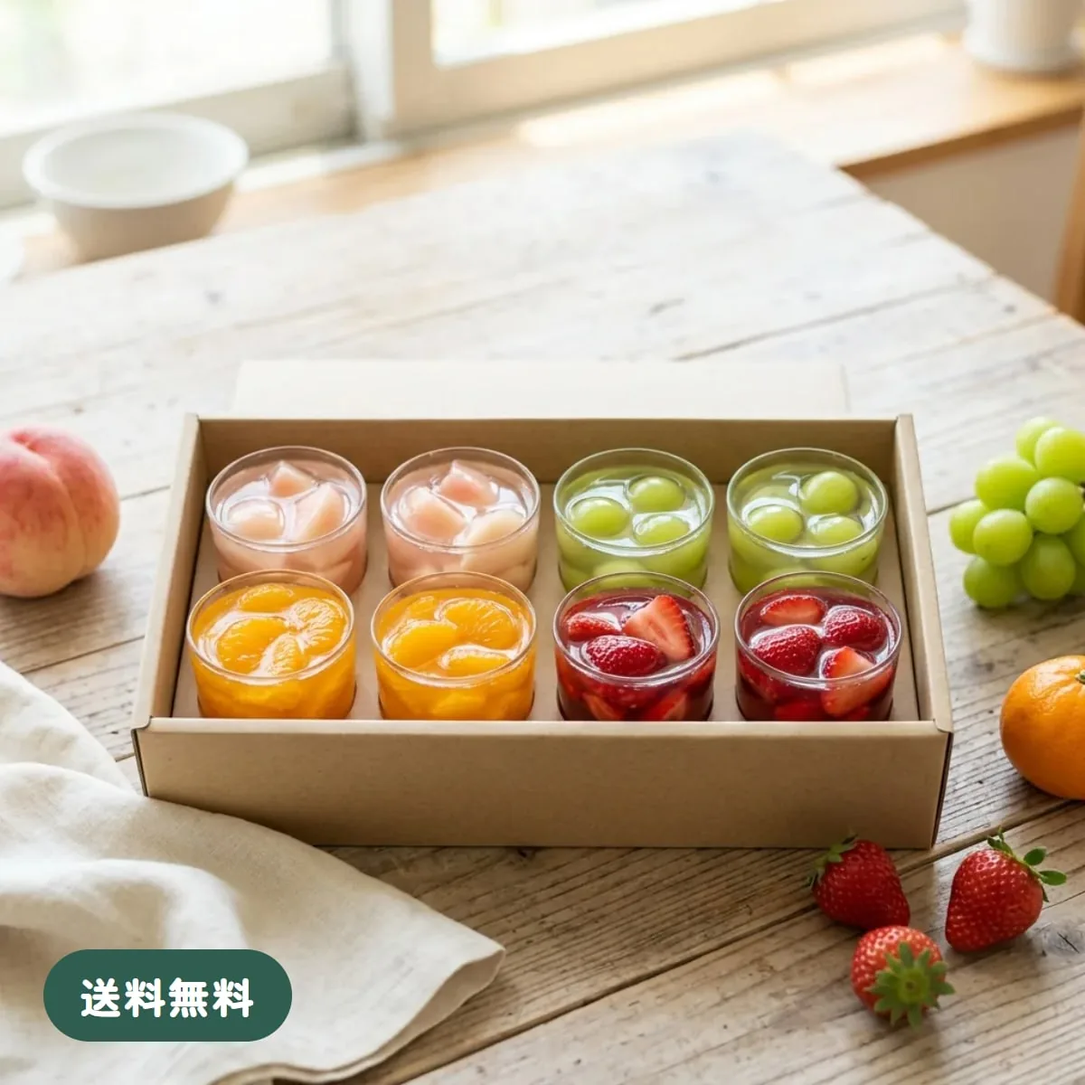
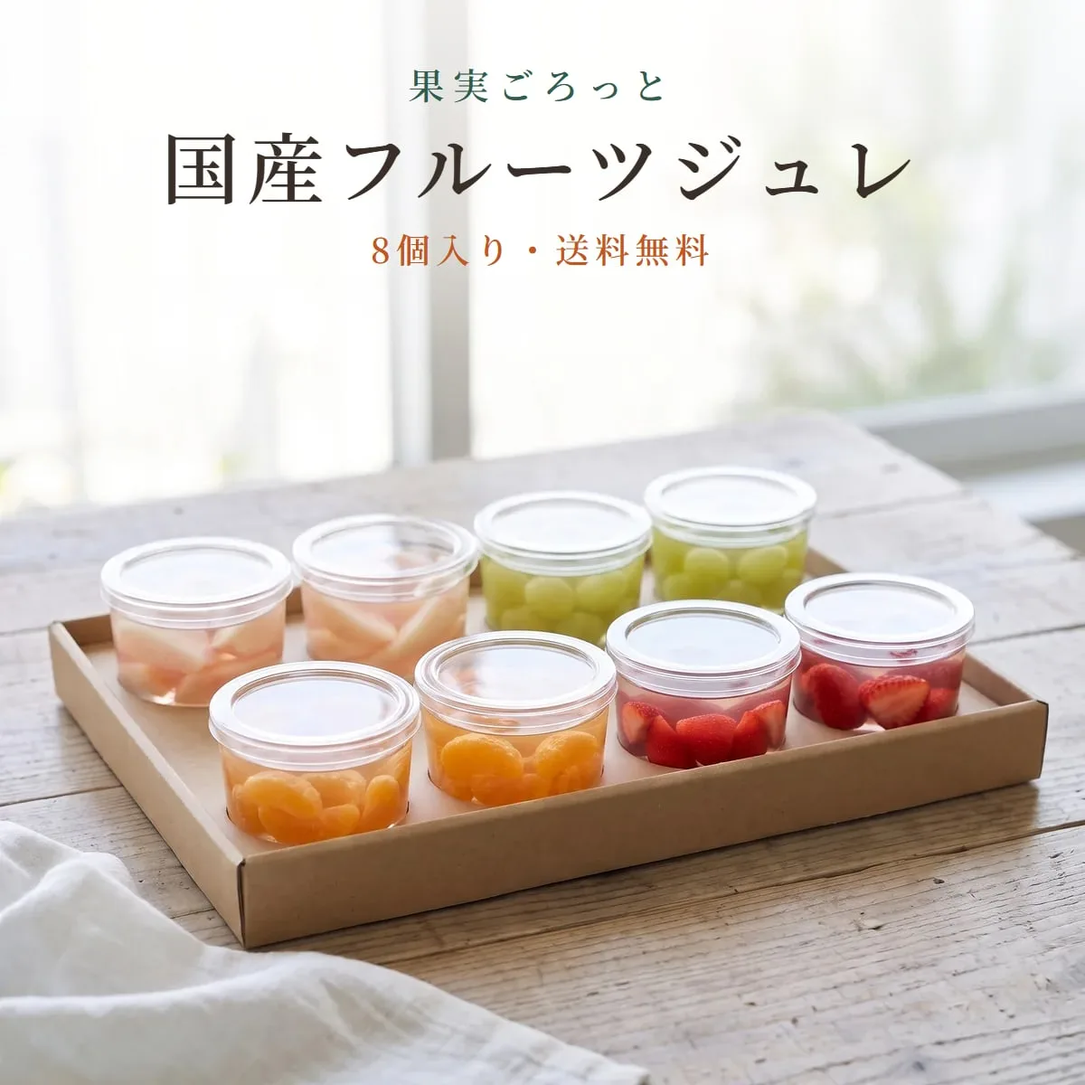
こはる（楽天の国産フルーツジュレ）を案Bで作り直し：果肉の寄りで見せる流れ・写真の中身の高さと蓋をそろえた

diff --git a/koharu/index.html b/koharu/index.html
@@ -4,11 +4,11 @@
   <meta charset="UTF-8">
   <meta name="viewport" content="width=device-width, initial-scale=1">
   <title>楽天市場 商品ページ制作サンプル｜国産フルーツジュレ（架空の商品）</title>
-  <meta name="description" content="楽天市場向けの商品ページ制作サンプル。スマホ用の縦長LP画像10枚、商品画像3枚、楽天にそのまま貼れるHTMLまで制作しました（架空の商品）。">
+  <meta name="description" content="楽天市場向けの商品ページ制作サンプル。スマホ用の縦長LP画像11枚、商品画像3枚、楽天にそのまま貼れるHTMLまで制作しました（架空の商品）。">
   <meta name="robots" content="noindex">
   <meta property="og:type" content="website">
   <meta property="og:title" content="楽天市場 商品ページ制作サンプル｜国産フルーツジュレ">
-  <meta property="og:description" content="スマホ用LP画像10枚・商品画像3枚・楽天用HTML（架空の商品のサンプル）">
+  <meta property="og:description" content="スマホ用LP画像11枚・商品画像3枚・楽天用HTML（架空の商品のサンプル）">
   <meta property="og:url" content="https://shimaponworks.github.io/koharu/">
   <meta property="og:image" content="https://shimaponworks.github.io/koharu/output/thumb-01.jpg">
   <meta name="twitter:card" content="summary_large_image">
@@ -22,7 +22,7 @@
       <h1 class="hero__title">果実ごろっと<br>国産フルーツジュレ</h1>
       <p class="hero__lead">お歳暮・クリスマス向けの食品ギフトを想定した、楽天市場の商品ページです。<br>スマホ用の縦長LP画像から、商品画像、楽天にそのまま貼れるHTMLまで制作しました。</p>
       <ul class="hero__chips">
-        <li>スマホ用LP画像 <strong>10枚</strong></li>
+        <li>スマホ用LP画像 <strong>11枚</strong></li>
         <li>商品画像 <strong>3枚</strong></li>
         <li>楽天用HTML・登録テキスト</li>
       </ul>
@@ -59,7 +59,8 @@
 
           <h3 class="lp__h">制作のポイント</h3>
           <ul class="lp__list">
-            <li>お歳暮・クリスマスの「贈る人」に向けて、ギフト対応（のし・包装・カード・手提げ袋）を大きく訴求</li>
+            <li>キャッチ「果実を、ほおばるジュレ。」を流れにするため、1枚目から果肉を大きく寄って見せ、4つの味も1枚ずつ寄りの写真で並べる構成に（楽天の食品ギフトで多い「季節→こだわり→味→ギフト」の順をやめた）</li>
+            <li>お歳暮・クリスマスの「贈る人」に向けて、季節の用途とギフト対応（のし・包装・カード・手提げ袋）を1枚にまとめて案内</li>
             <li>スマホでは画像が約半分の大きさで表示されるため、本文は28px以上で作成し、小さな画面でも読める文字サイズに</li>
             <li>原材料・アレルギー・賞味期限などの食品表示を省略せず、画像とテキストの両方に掲載</li>
             <li>作ったレビュー（お客様の声）は載せない（ステルスマーケティング規制・景品表示法への配慮）</li>
@@ -67,9 +68,9 @@
 
           <h3 class="lp__h">楽天の仕様への対応</h3>
           <table class="lp__spec">
-            <tr><th>画像の枚数</th><td>10枚（スマホ用商品説明文の上限 20枚以内）</td></tr>
+            <tr><th>画像の枚数</th><td>11枚（スマホ用商品説明文の上限 20枚以内）</td></tr>
             <tr><th>画像の幅</th><td>1080px（高さは各3840px以内）</td></tr>
-            <tr><th>1枚の容量</th><td>86〜198KB（目安の200KB以内／合計 約1.3MB）</td></tr>
+            <tr><th>1枚の容量</th><td>70〜182KB（目安の200KB以内／合計 約1.2MB）</td></tr>
             <tr><th>HTML</th><td>スマホ用は img タグのみ（CSS・div を使わない）</td></tr>
           </table>
 
@@ -84,22 +85,23 @@
             <summary>楽天用HTML（スマホ用商品説明文）の例</summary>
             <pre><code>&lt;img src="https://image.rakuten.co.jp/SHOP_ID/cabinet/sp-01.jpg" width="100%" alt="…"&gt;
 &lt;img src="https://image.rakuten.co.jp/SHOP_ID/cabinet/sp-02.jpg" width="100%" alt="…"&gt;
-…（全10行）</code></pre>
+…（全11行）</code></pre>
           </details>
         </div>
 
         <div class="lp__phone">
           <div class="phone">
-            <img src="output/sp-01.jpg" width="1080" height="2544" alt="果実ごろっと 国産フルーツジュレ 8個入り。果実を、ほおばるジュレ。3,980円（税込）送料無料。のし・包装・メッセージカード無料">
-            <img src="output/sp-02.jpg" width="1080" height="2066" alt="今年のお歳暮は、果実の贈りものを。甘いものが苦手な方にも喜ばれる、果物そのままのやさしい甘さです" loading="lazy">
-            <img src="output/sp-03.jpg" width="1080" height="1932" alt="こだわり1 果肉が主役のジュレ。ひとくちごとに、果肉がごろっと入っています" loading="lazy">
-            <img src="output/sp-04.jpg" width="1080" height="1902" alt="こだわり2 旬の国産フルーツだけを使用。国内の契約農家から、いちばんおいしい時期の果物を仕入れています" loading="lazy">
-            <img src="output/sp-05.jpg" width="1080" height="1896" alt="4つの味。白桃：とろける甘さ。マスカット：さわやかな香り。温州みかん：ほどよい酸味。いちご：甘ずっぱさ" loading="lazy">
-            <img src="output/sp-06.jpg" width="1080" height="1411" alt="おすすめの食べ方。冷蔵庫で2時間ほど冷やしてそのまま。冷凍庫で凍らせればシャーベットに" loading="lazy">
-            <img src="output/sp-07.jpg" width="1080" height="1833" alt="ギフト対応はすべて無料。のし（お歳暮・御礼・内祝いなど）、包装、メッセージカード、手提げ袋。ご注文時に選べます" loading="lazy">
-            <img src="output/sp-08.jpg" width="1080" height="1755" alt="よくある質問。賞味期限は製造日から90日。お届け日の指定ができます。のしの名入れができます。領収書を発行できます" loading="lazy">
-            <img src="output/sp-09.jpg" width="1080" height="1614" alt="商品情報。名称：ゼリー。原材料名：果実（白桃、マスカット、温州みかん、いちご）、砂糖、果汁、ゲル化剤（増粘多糖類）、酸味料。内容量：8個（1個あたり果実ジュレ110g）。賞味期限：製造日から90日。保存方法：直射日光・高温多湿を避け、常温で保存。アレルギー：もも。製造者：果実工房こはる（架空）" loading="lazy">
-            <img src="output/sp-10.jpg" width="1080" height="1094" alt="大切な方へ、果実のひとさじを。果実工房こはる" loading="lazy">
+            <img src="output/sp-01.jpg" width="1080" height="2436" alt="果実ごろっと 国産フルーツジュレ 8個入り。果実を、ほおばるジュレ。スプーンにのったいちごの果肉。3,980円（税込）送料無料。のし・包装・メッセージカード無料">
+            <img src="output/sp-02.jpg" width="1080" height="1496" alt="ひとさじごとに、果肉がごろっと。白桃：とろける甘さと、上品な香り" loading="lazy">
+            <img src="output/sp-03.jpg" width="1080" height="1132" alt="マスカット：はじける食感と、さわやかな香り" loading="lazy">
+            <img src="output/sp-04.jpg" width="1080" height="1130" alt="温州みかん：ほどよい酸味で、あと味すっきり" loading="lazy">
+            <img src="output/sp-05.jpg" width="1080" height="1130" alt="いちご：やさしい甘ずっぱさ" loading="lazy">
+            <img src="output/sp-06.jpg" width="1080" height="1624" alt="4つの味を、2個ずつ。白桃・マスカット・温州みかん・いちごの8個入り。国内の契約農家から、旬の時期に収穫した果物を仕入れています。香料・着色料は使っていません" loading="lazy">
+            <img src="output/sp-07.jpg" width="1080" height="1506" alt="おすすめの食べ方。冷蔵庫で2時間ほど冷やしてそのまま。冷凍庫で凍らせればシャーベットに" loading="lazy">
+            <img src="output/sp-08.jpg" width="1080" height="2341" alt="お歳暮・クリスマス・手土産・内祝いに。ギフト対応はすべて無料。のし（お歳暮・御礼・内祝いなど）、包装、メッセージカード、手提げ袋。ご注文時に選べます" loading="lazy">
+            <img src="output/sp-09.jpg" width="1080" height="1765" alt="よくある質問。賞味期限は製造日から90日。お届け日の指定ができます。のしの名入れができます。領収書を発行できます" loading="lazy">
+            <img src="output/sp-10.jpg" width="1080" height="1614" alt="商品情報。名称：ゼリー。原材料名：果実（白桃、マスカット、温州みかん、いちご）、砂糖、果汁、ゲル化剤（増粘多糖類）、酸味料。内容量：8個（4種×2個）、1個あたり110g。賞味期限：製造日から90日。保存方法：直射日光・高温多湿を避け、常温で保存。アレルギー：もも。製造者：果実工房こはる（架空）" loading="lazy">
+            <img src="output/sp-11.jpg" width="1080" height="1509" alt="大切な方へ、果実のひとさじを。透明のふたをして箱に並べた8個のジュレ。果実工房こはる" loading="lazy">
           </div>
         </div>
       </div>

diff --git a/gallery/index.html b/gallery/index.html
@@ -826,34 +826,34 @@
         <h2 class="work__title" id="koharu-title">食品ギフトの<br>楽天市場の商品ページ</h2>
         <p class="work__name">果実工房こはる「国産フルーツジュレ」（架空のお店・商品）</p>
         <dl class="work__spec">
-          <dt>担当</dt><dd>スマホ用の縦長画像10枚、商品画像3枚、楽天にそのまま貼れるHTMLと登録用の文章</dd>
+          <dt>担当</dt><dd>スマホ用の縦長画像11枚、商品画像3枚、楽天にそのまま貼れるHTMLと登録用の文章</dd>
           <dt>使ったもの</dt><dd>HTML / CSS（画像の書き出し用）</dd>
         </dl>
-        <p class="work__body">お歳暮やクリスマスの贈りものを探す方に向けて、「きちんとして見えて、誰にでも喜ばれる」ことを、果肉の写真とギフト対応で伝えました。楽天のスマホ用ページはCSSが使えないため、縦長の画像を分けて並べる形にし、1枚目の商品画像はガイドライン（文字は面積の20%以内・枠線なし）に合わせています。</p>
+        <p class="work__body">お歳暮やクリスマスの贈りものを探す方に向けて、キャッチ「果実を、ほおばるジュレ。」のとおり果肉の大きさが伝わるように、1枚目から果肉を大きく寄って見せ、4つの味も1枚ずつ寄りの写真で並べました。季節の用途とギフト対応は1枚にまとめています。楽天のスマホ用ページはCSSが使えないため、縦長の画像を分けて並べる形にし、1枚目の商品画像は、一覧で何の商品か分かるように商品名を入れ、ガイドライン（文字は面積の20%以内・枠線なし）に合わせています。</p>
         <p class="work__note">写真は画像生成AIで作成したイメージです。</p>
       </div>
       <div class="work__media">
         <div class="slices">
           <figure class="shot">
-            <a class="shot__link" href="images/koharu-sp1.webp"><img src="images/koharu-sp1-400.webp" width="400" height="942" alt="スマホ用の縦長画像1枚目：「果実ごろっと 国産フルーツジュレ」のキャッチと、箱に並んだ8個のジュレの写真" loading="lazy"></a>
-            <figcaption>スマホ用の縦長画像（1枚目／全10枚）</figcaption>
+            <a class="shot__link" href="images/koharu-sp1.webp"><img src="images/koharu-sp1-400.webp" width="400" height="902" alt="スマホ用の縦長画像1枚目：「果実を、ほおばるジュレ。」のキャッチと、スプーンにのったいちごの果肉を大きく寄った写真。下に透明のふたをして箱に並べた8個のジュレの写真と、商品名" loading="lazy"></a>
+            <figcaption>スマホ用の縦長画像（1枚目／全11枚）</figcaption>
           </figure>
           <figure class="shot">
-            <a class="shot__link" href="images/koharu-sp2.webp"><img src="images/koharu-sp2-400.webp" width="400" height="765" alt="スマホ用の縦長画像2枚目：お歳暮・クリスマスの季節の贈りもの" loading="lazy"></a>
+            <a class="shot__link" href="images/koharu-sp2.webp"><img src="images/koharu-sp2-400.webp" width="400" height="554" alt="スマホ用の縦長画像2枚目：「ひとさじごとに、果肉がごろっと。」の見出しと、白桃のジュレをスプーンですくった寄りの写真。横に縦書きで「白桃」" loading="lazy"></a>
             <figcaption>（2枚目）</figcaption>
           </figure>
         </div>
         <div class="thumbs">
           <figure class="shot">
-            <a class="shot__link" href="images/koharu-thumb1.webp"><img src="images/koharu-thumb1-400.webp" width="400" height="400" alt="商品画像1枚目：木のテーブルの上の、8個入りのジュレの箱" loading="lazy"></a>
+            <a class="shot__link" href="images/koharu-thumb1.webp"><img src="images/koharu-thumb1-400.webp" width="400" height="400" alt="商品画像1枚目：木のテーブルの上の、透明のふたをしたカップ8個が並ぶジュレの箱。上に商品名「果実ごろっと 国産フルーツジュレ」と「8個入り・送料無料」" loading="lazy"></a>
             <figcaption>商品画像 1</figcaption>
           </figure>
           <figure class="shot">
-            <a class="shot__link" href="images/koharu-thumb2.webp"><img src="images/koharu-thumb2-400.webp" width="400" height="400" alt="商品画像2枚目：白桃・マスカット・みかん・いちごの4つの味" loading="lazy"></a>
+            <a class="shot__link" href="images/koharu-thumb2.webp"><img src="images/koharu-thumb2-400.webp" width="400" height="400" alt="商品画像2枚目：白桃・マスカット・みかん・いちごの4つの味のジュレを、同じ背の低いカップに同じ高さまで入れて並べた写真" loading="lazy"></a>
             <figcaption>商品画像 2</figcaption>
           </figure>
           <figure class="shot">
-            <a class="shot__link" href="images/koharu-thumb3.webp"><img src="images/koharu-thumb3-400.webp" width="400" height="400" alt="商品画像3枚目：リボンをかけたギフトの箱と、ギフト対応の案内" loading="lazy"></a>
+            <a class="shot__link" href="images/koharu-thumb3.webp"><img src="images/koharu-thumb3-400.webp" width="400" height="400" alt="商品画像3枚目：商品と同じ箱にリボンをかけた写真と、ギフト対応無料（のし・包装・メッセージカード・手提げ袋）の案内" loading="lazy"></a>
             <figcaption>商品画像 3</figcaption>
           </figure>
         </div>

diff --git a/koharu/output/rakuten-pc.html b/koharu/output/rakuten-pc.html
@@ -1,12 +1,13 @@
 <center>
-<img src="https://image.rakuten.co.jp/SHOP_ID/cabinet/sp-01.jpg" width="750" alt="果実ごろっと 国産フルーツジュレ 8個入り。果実を、ほおばるジュレ。3,980円（税込）送料無料。のし・包装・メッセージカード無料"><br>
-<img src="https://image.rakuten.co.jp/SHOP_ID/cabinet/sp-02.jpg" width="750" alt="今年のお歳暮は、果実の贈りものを。甘いものが苦手な方にも喜ばれる、果物そのままのやさしい甘さです"><br>
-<img src="https://image.rakuten.co.jp/SHOP_ID/cabinet/sp-03.jpg" width="750" alt="こだわり1 果肉が主役のジュレ。ひとくちごとに、果肉がごろっと入っています"><br>
-<img src="https://image.rakuten.co.jp/SHOP_ID/cabinet/sp-04.jpg" width="750" alt="こだわり2 旬の国産フルーツだけを使用。国内の契約農家から、いちばんおいしい時期の果物を仕入れています"><br>
-<img src="https://image.rakuten.co.jp/SHOP_ID/cabinet/sp-05.jpg" width="750" alt="4つの味。白桃：とろける甘さ。マスカット：さわやかな香り。温州みかん：ほどよい酸味。いちご：甘ずっぱさ"><br>
-<img src="https://image.rakuten.co.jp/SHOP_ID/cabinet/sp-06.jpg" width="750" alt="おすすめの食べ方。冷蔵庫で2時間ほど冷やしてそのまま。冷凍庫で凍らせればシャーベットに"><br>
-<img src="https://image.rakuten.co.jp/SHOP_ID/cabinet/sp-07.jpg" width="750" alt="ギフト対応はすべて無料。のし（お歳暮・御礼・内祝いなど）、包装、メッセージカード、手提げ袋。ご注文時に選べます"><br>
-<img src="https://image.rakuten.co.jp/SHOP_ID/cabinet/sp-08.jpg" width="750" alt="よくある質問。賞味期限は製造日から90日。お届け日の指定ができます。のしの名入れができます。領収書を発行できます"><br>
-<img src="https://image.rakuten.co.jp/SHOP_ID/cabinet/sp-09.jpg" width="750" alt="商品情報。名称：ゼリー。原材料名：果実（白桃、マスカット、温州みかん、いちご）、砂糖、果汁、ゲル化剤（増粘多糖類）、酸味料。内容量：8個（1個あたり果実ジュレ110g）。賞味期限：製造日から90日。保存方法：直射日光・高温多湿を避け、常温で保存。アレルギー：もも。製造者：果実工房こはる（架空）"><br>
-<img src="https://image.rakuten.co.jp/SHOP_ID/cabinet/sp-10.jpg" width="750" alt="大切な方へ、果実のひとさじを。果実工房こはる"><br>
+<img src="https://image.rakuten.co.jp/SHOP_ID/cabinet/sp-01.jpg" width="750" alt="果実ごろっと 国産フルーツジュレ 8個入り。果実を、ほおばるジュレ。スプーンにのったいちごの果肉。3,980円（税込）送料無料。のし・包装・メッセージカード無料"><br>
+<img src="https://image.rakuten.co.jp/SHOP_ID/cabinet/sp-02.jpg" width="750" alt="ひとさじごとに、果肉がごろっと。白桃：とろける甘さと、上品な香り"><br>
+<img src="https://image.rakuten.co.jp/SHOP_ID/cabinet/sp-03.jpg" width="750" alt="マスカット：はじける食感と、さわやかな香り"><br>
+<img src="https://image.rakuten.co.jp/SHOP_ID/cabinet/sp-04.jpg" width="750" alt="温州みかん：ほどよい酸味で、あと味すっきり"><br>
+<img src="https://image.rakuten.co.jp/SHOP_ID/cabinet/sp-05.jpg" width="750" alt="いちご：やさしい甘ずっぱさ"><br>
+<img src="https://image.rakuten.co.jp/SHOP_ID/cabinet/sp-06.jpg" width="750" alt="4つの味を、2個ずつ。白桃・マスカット・温州みかん・いちごの8個入り。国内の契約農家から、旬の時期に収穫した果物を仕入れています。香料・着色料は使っていません"><br>
+<img src="https://image.rakuten.co.jp/SHOP_ID/cabinet/sp-07.jpg" width="750" alt="おすすめの食べ方。冷蔵庫で2時間ほど冷やしてそのまま。冷凍庫で凍らせればシャーベットに"><br>
+<img src="https://image.rakuten.co.jp/SHOP_ID/cabinet/sp-08.jpg" width="750" alt="お歳暮・クリスマス・手土産・内祝いに。ギフト対応はすべて無料。のし（お歳暮・御礼・内祝いなど）、包装、メッセージカード、手提げ袋。ご注文時に選べます"><br>
+<img src="https://image.rakuten.co.jp/SHOP_ID/cabinet/sp-09.jpg" width="750" alt="よくある質問。賞味期限は製造日から90日。お届け日の指定ができます。のしの名入れができます。領収書を発行できます"><br>
+<img src="https://image.rakuten.co.jp/SHOP_ID/cabinet/sp-10.jpg" width="750" alt="商品情報。名称：ゼリー。原材料名：果実（白桃、マスカット、温州みかん、いちご）、砂糖、果汁、ゲル化剤（増粘多糖類）、酸味料。内容量：8個（4種×2個）、1個あたり110g。賞味期限：製造日から90日。保存方法：直射日光・高温多湿を避け、常温で保存。アレルギー：もも。製造者：果実工房こはる（架空）"><br>
+<img src="https://image.rakuten.co.jp/SHOP_ID/cabinet/sp-11.jpg" width="750" alt="大切な方へ、果実のひとさじを。透明のふたをして箱に並べた8個のジュレ。果実工房こはる"><br>
 </center>

diff --git a/koharu/output/rakuten-sp.html b/koharu/output/rakuten-sp.html
@@ -1,10 +1,11 @@
-<img src="https://image.rakuten.co.jp/SHOP_ID/cabinet/sp-01.jpg" width="100%" alt="果実ごろっと 国産フルーツジュレ 8個入り。果実を、ほおばるジュレ。3,980円（税込）送料無料。のし・包装・メッセージカード無料">
-<img src="https://image.rakuten.co.jp/SHOP_ID/cabinet/sp-02.jpg" width="100%" alt="今年のお歳暮は、果実の贈りものを。甘いものが苦手な方にも喜ばれる、果物そのままのやさしい甘さです">
-<img src="https://image.rakuten.co.jp/SHOP_ID/cabinet/sp-03.jpg" width="100%" alt="こだわり1 果肉が主役のジュレ。ひとくちごとに、果肉がごろっと入っています">
-<img src="https://image.rakuten.co.jp/SHOP_ID/cabinet/sp-04.jpg" width="100%" alt="こだわり2 旬の国産フルーツだけを使用。国内の契約農家から、いちばんおいしい時期の果物を仕入れています">
-<img src="https://image.rakuten.co.jp/SHOP_ID/cabinet/sp-05.jpg" width="100%" alt="4つの味。白桃：とろける甘さ。マスカット：さわやかな香り。温州みかん：ほどよい酸味。いちご：甘ずっぱさ">
-<img src="https://image.rakuten.co.jp/SHOP_ID/cabinet/sp-06.jpg" width="100%" alt="おすすめの食べ方。冷蔵庫で2時間ほど冷やしてそのまま。冷凍庫で凍らせればシャーベットに">
-<img src="https://image.rakuten.co.jp/SHOP_ID/cabinet/sp-07.jpg" width="100%" alt="ギフト対応はすべて無料。のし（お歳暮・御礼・内祝いなど）、包装、メッセージカード、手提げ袋。ご注文時に選べます">
-<img src="https://image.rakuten.co.jp/SHOP_ID/cabinet/sp-08.jpg" width="100%" alt="よくある質問。賞味期限は製造日から90日。お届け日の指定ができます。のしの名入れができます。領収書を発行できます">
-<img src="https://image.rakuten.co.jp/SHOP_ID/cabinet/sp-09.jpg" width="100%" alt="商品情報。名称：ゼリー。原材料名：果実（白桃、マスカット、温州みかん、いちご）、砂糖、果汁、ゲル化剤（増粘多糖類）、酸味料。内容量：8個（1個あたり果実ジュレ110g）。賞味期限：製造日から90日。保存方法：直射日光・高温多湿を避け、常温で保存。アレルギー：もも。製造者：果実工房こはる（架空）">
-<img src="https://image.rakuten.co.jp/SHOP_ID/cabinet/sp-10.jpg" width="100%" alt="大切な方へ、果実のひとさじを。果実工房こはる">
+<img src="https://image.rakuten.co.jp/SHOP_ID/cabinet/sp-01.jpg" width="100%" alt="果実ごろっと 国産フルーツジュレ 8個入り。果実を、ほおばるジュレ。スプーンにのったいちごの果肉。3,980円（税込）送料無料。のし・包装・メッセージカード無料">
+<img src="https://image.rakuten.co.jp/SHOP_ID/cabinet/sp-02.jpg" width="100%" alt="ひとさじごとに、果肉がごろっと。白桃：とろける甘さと、上品な香り">
+<img src="https://image.rakuten.co.jp/SHOP_ID/cabinet/sp-03.jpg" width="100%" alt="マスカット：はじける食感と、さわやかな香り">
+<img src="https://image.rakuten.co.jp/SHOP_ID/cabinet/sp-04.jpg" width="100%" alt="温州みかん：ほどよい酸味で、あと味すっきり">
+<img src="https://image.rakuten.co.jp/SHOP_ID/cabinet/sp-05.jpg" width="100%" alt="いちご：やさしい甘ずっぱさ">
+<img src="https://image.rakuten.co.jp/SHOP_ID/cabinet/sp-06.jpg" width="100%" alt="4つの味を、2個ずつ。白桃・マスカット・温州みかん・いちごの8個入り。国内の契約農家から、旬の時期に収穫した果物を仕入れています。香料・着色料は使っていません">
+<img src="https://image.rakuten.co.jp/SHOP_ID/cabinet/sp-07.jpg" width="100%" alt="おすすめの食べ方。冷蔵庫で2時間ほど冷やしてそのまま。冷凍庫で凍らせればシャーベットに">
+<img src="https://image.rakuten.co.jp/SHOP_ID/cabinet/sp-08.jpg" width="100%" alt="お歳暮・クリスマス・手土産・内祝いに。ギフト対応はすべて無料。のし（お歳暮・御礼・内祝いなど）、包装、メッセージカード、手提げ袋。ご注文時に選べます">
+<img src="https://image.rakuten.co.jp/SHOP_ID/cabinet/sp-09.jpg" width="100%" alt="よくある質問。賞味期限は製造日から90日。お届け日の指定ができます。のしの名入れができます。領収書を発行できます">
+<img src="https://image.rakuten.co.jp/SHOP_ID/cabinet/sp-10.jpg" width="100%" alt="商品情報。名称：ゼリー。原材料名：果実（白桃、マスカット、温州みかん、いちご）、砂糖、果汁、ゲル化剤（増粘多糖類）、酸味料。内容量：8個（4種×2個）、1個あたり110g。賞味期限：製造日から90日。保存方法：直射日光・高温多湿を避け、常温で保存。アレルギー：もも。製造者：果実工房こはる（架空）">
+<img src="https://image.rakuten.co.jp/SHOP_ID/cabinet/sp-11.jpg" width="100%" alt="大切な方へ、果実のひとさじを。透明のふたをして箱に並べた8個のジュレ。果実工房こはる">

diff --git a/index.html b/index.html
@@ -237,11 +237,11 @@
           </li>
           <li class="work">
             <a class="work__link" href="https://shimaponworks.github.io/koharu/" target="_blank" rel="noopener">
-              <div class="work__screens"><figure class="work__shot" style="--r: 0.425"><img src="images/card/koharu-sp1.webp" width="240" height="565" alt="果実工房こはるの楽天用スマホ画像の1枚目。箱に並んだ8個のジュレの写真" loading="lazy"><figcaption>スマホ</figcaption></figure><figure class="work__shot" style="--r: 1"><img src="images/card/koharu-thumb1.webp" width="300" height="300" alt="商品画像1枚目。木のテーブルの上の、8個入りのジュレの箱" loading="lazy"><figcaption>商品画像</figcaption></figure><figure class="work__shot" style="--r: 1"><img src="images/card/koharu-thumb2.webp" width="300" height="300" alt="商品画像2枚目。白桃・マスカット・みかん・いちごの4つの味" loading="lazy"><figcaption>商品画像</figcaption></figure></div>
+              <div class="work__screens"><figure class="work__shot" style="--r: 0.444"><img src="images/card/koharu-sp1.webp" width="240" height="541" alt="果実工房こはるの楽天用スマホ画像の1枚目。スプーンにのったいちごの果肉の寄りの写真と、透明のふたをした8個のジュレの箱" loading="lazy"><figcaption>スマホ</figcaption></figure><figure class="work__shot" style="--r: 1"><img src="images/card/koharu-thumb1.webp" width="300" height="300" alt="商品画像1枚目。木のテーブルの上の、透明のふたをした8個入りのジュレの箱と商品名" loading="lazy"><figcaption>商品画像</figcaption></figure><figure class="work__shot" style="--r: 1"><img src="images/card/koharu-thumb2.webp" width="300" height="300" alt="商品画像2枚目。白桃・マスカット・みかん・いちごの4つの味のジュレを、同じ高さまで入れて並べたカップ" loading="lazy"><figcaption>商品画像</figcaption></figure></div>
               <div class="work__body">
                 <p class="work__tag">ネットショップ｜楽天市場</p>
                 <h3 class="work__title">果実工房こはる</h3>
-                <p class="work__text">食品ギフトの商品ページ。スマホ用の縦長画像10枚と商品画像3枚、楽天用のHTMLまで制作しました。</p>
+                <p class="work__text">食品ギフトの商品ページ。スマホ用の縦長画像11枚と商品画像3枚、楽天用のHTMLまで制作しました。</p>
                 <ul class="work__points">
                   <li>楽天の仕様とガイドラインに対応</li>
                   <li>食品表示を省略せずに掲載</li>
